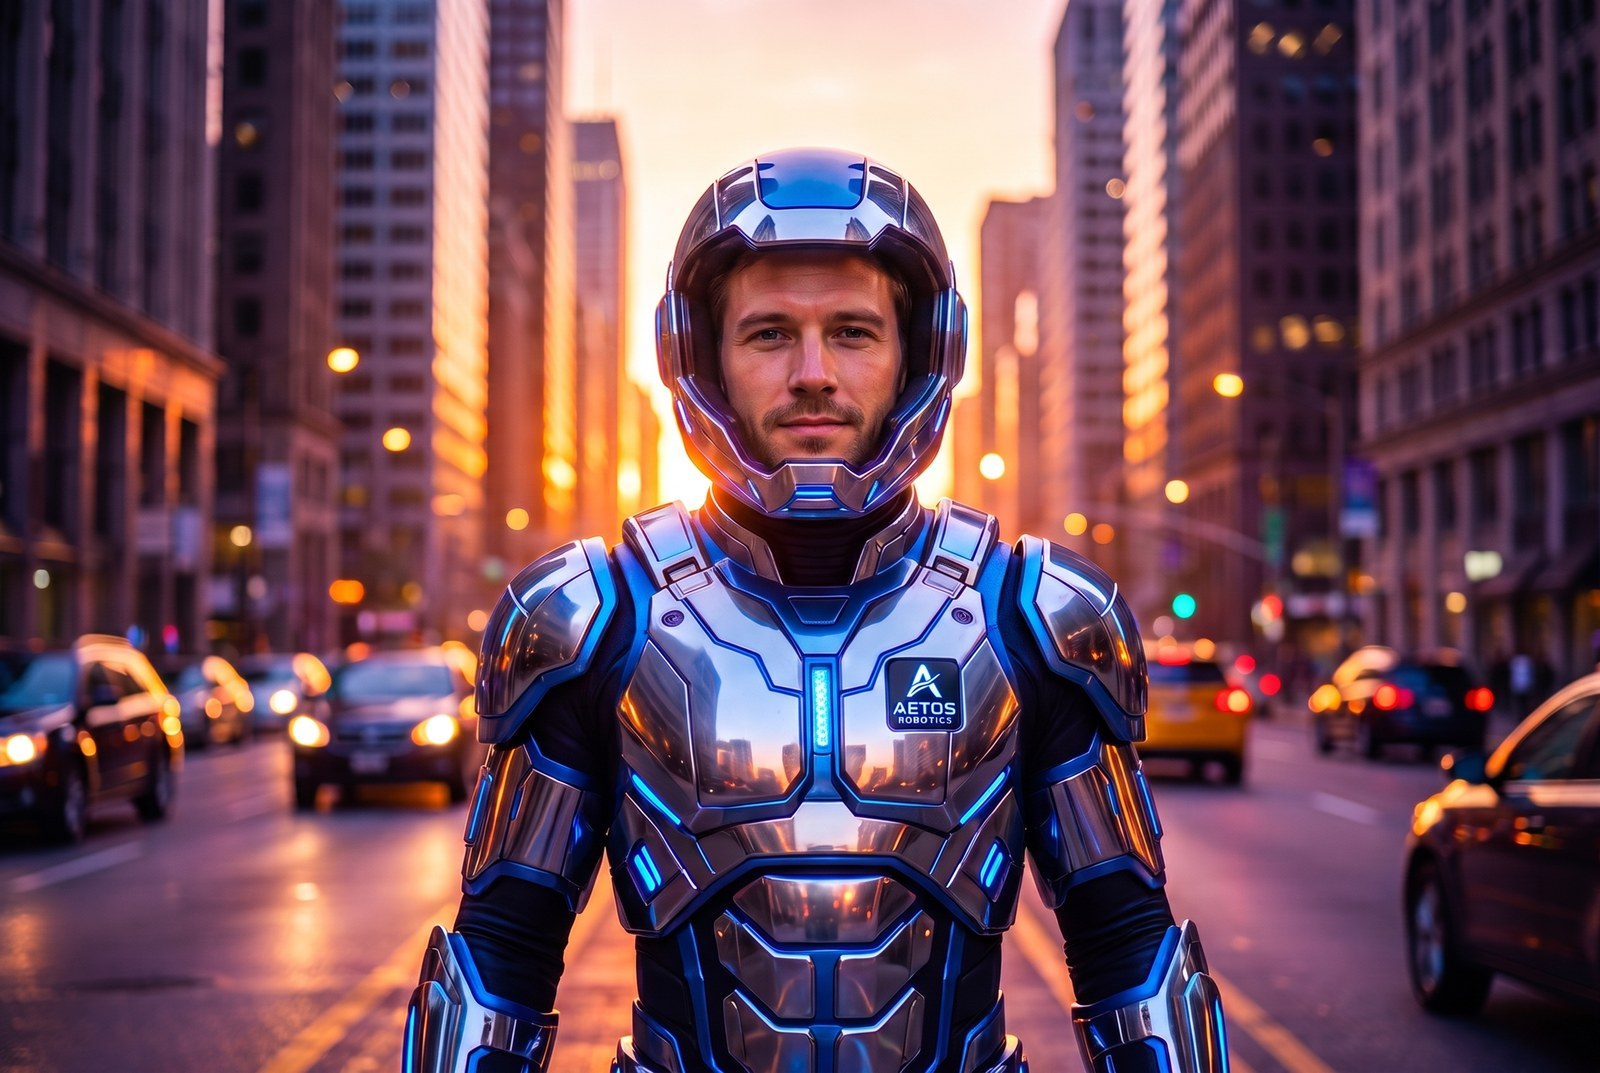
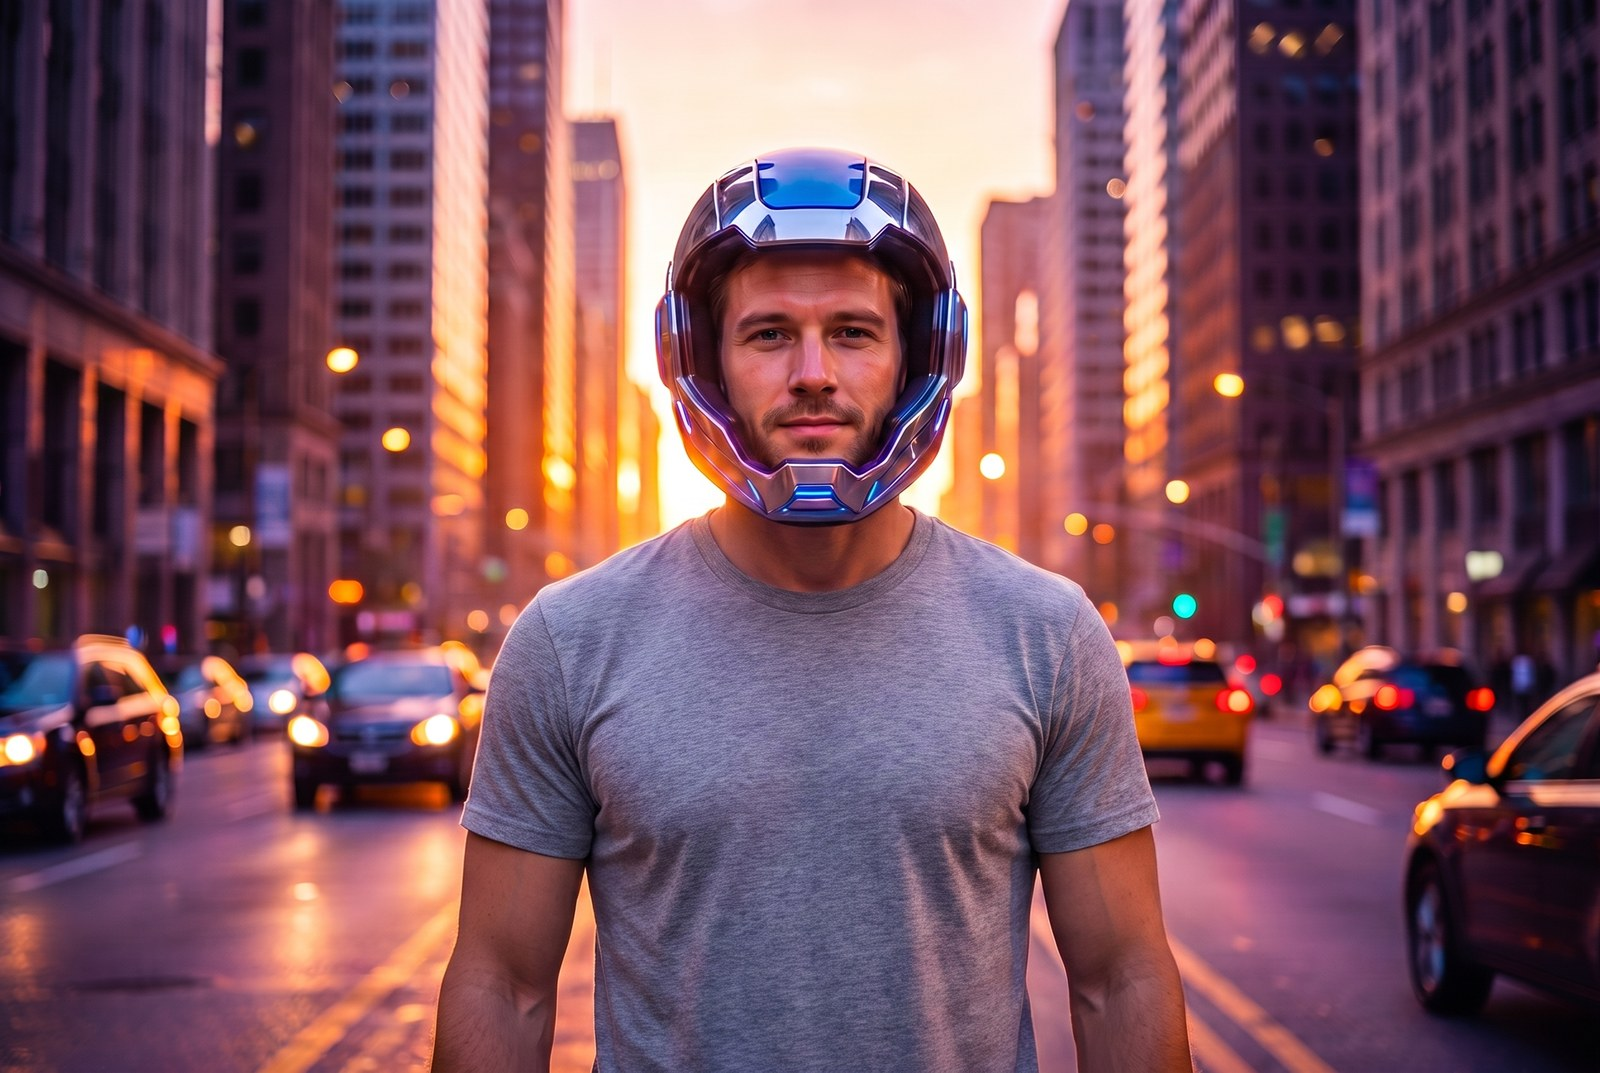
Full-body hover reveal + clean animated title on Aetos Robotics demo
- reveal.jpg now shows the operator's whole visible body (plain
  t-shirt, no armor) instead of just the face, so hovering anywhere
  on the suit reveals the person underneath, not only the visor.
  Edited from the prior aligned pair rather than generated fresh, so
  it stays pixel-aligned with front.jpg.
- Replaced the hero copy overlay (eyebrow, paragraph, hint) sitting
  on top of the photo with a single big animated title above the
  image, so nothing covers the suit itself anymore.

Claude-Session: https://claude.ai/code/session_01MbkSQUZQuXqjZgcr6xEvna

diff --git a/public/demos/image-reveal/index.html b/public/demos/image-reveal/index.html
@@ -85,6 +85,28 @@
      wobbly, fading holes along the mouse trail (destination-out) so
      the dark image shows through as an organic, moving blob instead
      of a plain circle. */
+  .hero-title {
+    background: var(--ink);
+    padding: 132px 24px 64px;
+    text-align: center;
+    overflow: hidden;
+  }
+
+  .hero-title h1 {
+    margin: 0;
+    font-size: clamp(42px, 10vw, 120px);
+    font-weight: 800;
+    letter-spacing: 0.01em;
+    line-height: 1.0;
+    opacity: 0;
+    transform: translateY(32px) scale(0.94);
+    animation: heroTitleIn 1.1s cubic-bezier(0.16, 1, 0.3, 1) 0.15s forwards;
+  }
+
+  @keyframes heroTitleIn {
+    to { opacity: 1; transform: translateY(0) scale(1); }
+  }
+
   .reveal-hero {
     position: relative;
     width: 100vw;
@@ -108,78 +130,6 @@
   .reveal-hero .reveal-image { z-index: 1; }
 
   .reveal-hero .front-canvas { z-index: 2; }
-
-  .hero-scrim {
-    position: absolute;
-    inset: 0;
-    z-index: 3;
-    pointer-events: none;
-    background: linear-gradient(to top, rgba(5,7,12,0.92) 0%, rgba(5,7,12,0.15) 42%, transparent 62%);
-  }
-
-  .hero-copy {
-    position: absolute;
-    left: 0;
-    right: 0;
-    bottom: 0;
-    z-index: 4;
-    padding: 0 32px 64px;
-    text-align: center;
-    pointer-events: none;
-  }
-
-  .hero-copy .eyebrow {
-    font-size: 12px;
-    font-weight: 700;
-    letter-spacing: 0.28em;
-    color: var(--blue);
-    margin: 0 0 14px;
-  }
-
-  .hero-copy h1 {
-    margin: 0 0 14px;
-    font-size: clamp(34px, 6vw, 68px);
-    font-weight: 800;
-    letter-spacing: 0.01em;
-    line-height: 1.02;
-  }
-
-  .hero-copy p {
-    margin: 0 auto 26px;
-    max-width: 520px;
-    color: #cfd6e4;
-    font-size: 15px;
-    line-height: 1.6;
-  }
-
-  .hero-actions {
-    display: flex;
-    align-items: center;
-    justify-content: center;
-    gap: 14px;
-    pointer-events: auto;
-  }
-
-  .hero-actions a {
-    padding: 13px 26px;
-    border-radius: 999px;
-    font-size: 13px;
-    font-weight: 700;
-    letter-spacing: 0.03em;
-    text-decoration: none;
-  }
-
-  .hero-actions .primary { background: var(--blue); color: #fff; }
-  .hero-actions .ghost { border: 1px solid rgba(255,255,255,0.28); color: #fff; }
-
-  .hero-hint {
-    margin-top: 22px;
-    font-size: 11px;
-    letter-spacing: 0.08em;
-    color: var(--text-dim);
-    text-transform: uppercase;
-    pointer-events: none;
-  }
 
   /* ---------- protocols section ---------- */
   .protocols {
@@ -298,16 +248,13 @@
   <span class="wordmark">AETOS <span>ROBOTICS</span></span>
 </nav>
 
+<div class="hero-title">
+  <h1>THE X1 EXOSUIT</h1>
+</div>
+
 <div class="reveal-hero" id="revealHero">
   <img class="reveal-image" src="/demos/image-reveal/reveal.jpg" alt="" />
   <canvas class="front-canvas" id="revealCanvas" aria-hidden="true"></canvas>
-  <div class="hero-scrim"></div>
-  <div class="hero-copy">
-    <p class="eyebrow">ADVANCED ROBOTICS &middot; WEARABLE EXOSKELETONS</p>
-    <h1>THE X1 EXOSUIT</h1>
-    <p>A full-body powered exoskeleton built for industrial and field work &mdash; reinforced plating, powered joints, and a heads-up display engineered around the person wearing it. Underneath the armor, it's still just a person.</p>
-    <p class="hero-hint">Move your cursor across the suit to see the operator inside</p>
-  </div>
 </div>
 
 <section class="protocols" id="protocols">
